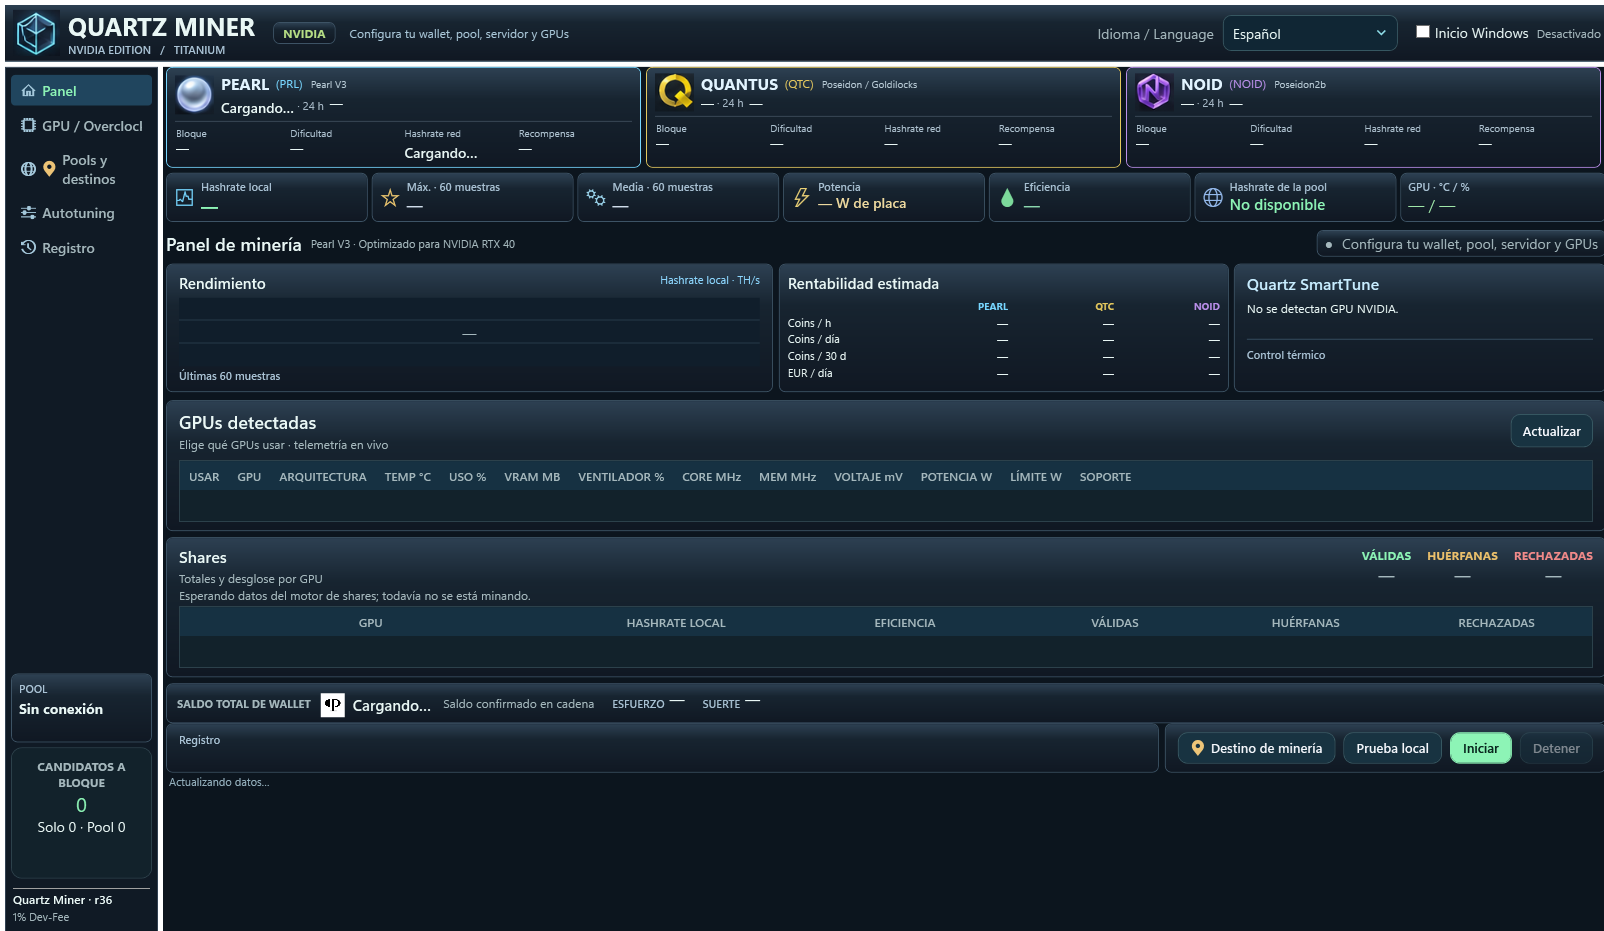
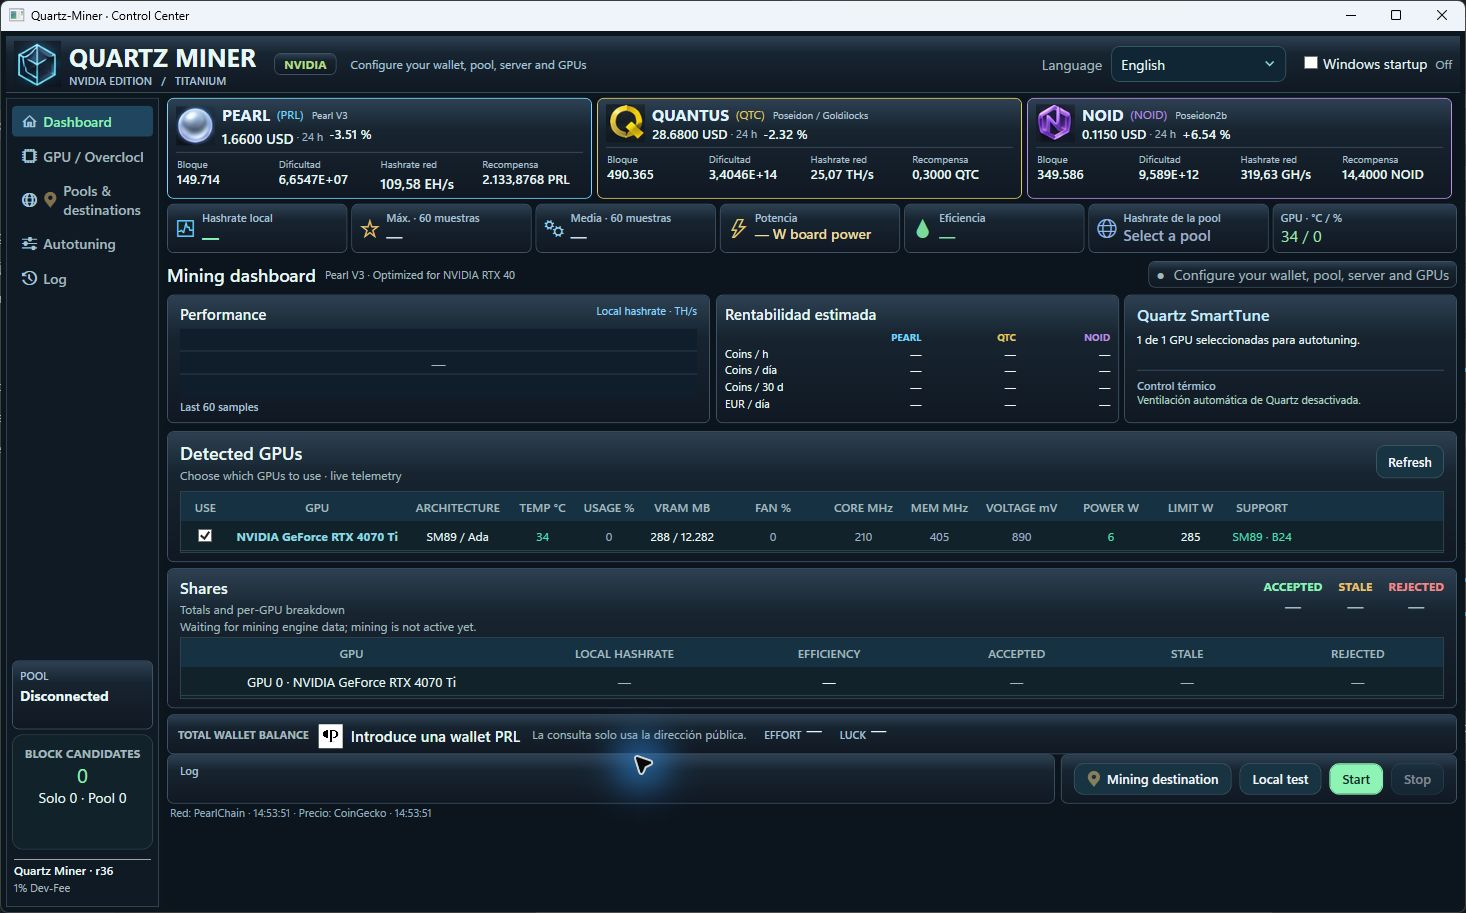
Update Titanium screenshots and release notes

diff --git a/README.md b/README.md
@@ -40,12 +40,12 @@ Quartz selects the CUDA image by each GPU’s PCI address. In a mixed rig, Ada G
 
 Autotuning is available on the two qualified models. Clock, fan, voltage and power controls depend on the individual card and driver.
 
-## Latest FIX — portable settings and verified GPU controls
+## Latest FIX — dashboard, pool hashrate and GPU recovery
 
-- A fresh extraction opens with empty payout, server, manual port, thermal target, tuning loss and overclock fields. Saved preferences belong to the installation's `user-settings` folder. Keep this folder when updating in place. When moving from an older release, **Import previous settings** is available in an empty installation.
-- Core and VRAM clock edits work independently. The panel checks the requested power limit against the live NVIDIA reading and logs a persistent mismatch once. Voltage and core adjustments remain pending until telemetry confirms them under load. External V/F control requires an enabled, supported MSI Afterburner curve.
-- On the RTX 4070 Ti, the panel applied 205 W before load and changed the limit to 200 W during local Pearl V3 work. Under load it reported 2,580 MHz core, 405 MHz VRAM and 900 mV. The fan target was 90%. Factory power (285 W) and automatic control of both fans were verified after stopping.
-- CPU regression tests covered 14 empty configuration fields, per-installation isolation, all five saved OC values, three coin destinations, repeated telemetry mismatches and recovery, and the bundled B24 and SmartTune hosts.
+- The three coin cards display current prices, 24-hour change, chain height, difficulty, estimated network hashrate and block rewards when the sources publish them.
+- A fresh Pearl installation prompts you to select a pool. Quantus reads the public HeroMiners pool total and NOID reads the public RPlant pool total. These readings are independent of the local GPU rate or worker rate.
+- Quartz can complete a pending GPU restoration when a disabled, readable MSI Afterburner V/F curve already matches the verified original state. Leave **Force constant voltage** disabled.
+- The clean Windows package passed 20 CPU checks and live Dashboard and pool-display checks without starting mining. The saved GPU recovery was verified on the idle RTX 4070 Ti.
 
 ## Download Quartz Miner for Windows
 
@@ -79,7 +79,7 @@ The panel shows **1% Dev-Fee**. Quartz schedules up to 30 seconds of developer m
 
 ## Titanium panel
 
-Screenshots from the published Windows application in a clean, offline session. Mining and telemetry are idle.
+The Dashboard shows live market and network data from a clean installation with mining stopped. The GPU / Overclock image uses a simulated card and blank settings.
 
 ![Titanium dashboard with Pearl V3, NOID and Quantus, per-GPU hashrate and efficiency](titanium-dashboard.png)
 

diff --git a/RELEASE-NOTES.md b/RELEASE-NOTES.md
@@ -1,10 +1,12 @@
 # Quartz-Miner 1.0.12 FIX
 
-## Latest FIX — portable settings and verified GPU controls
+## Latest FIX — dashboard, pool hashrate and GPU recovery
 
-- A fresh extraction opens with empty payout, server, manual port, thermal target, tuning loss and overclock fields. Saved preferences belong to the installation's `user-settings` folder. Keep this folder when updating in place. When moving from an older release, **Import previous settings** is available in an empty installation.
-- Core and VRAM clock edits work independently. The panel checks the requested power limit against the live NVIDIA reading and logs a persistent mismatch once. Voltage and core adjustments remain pending until telemetry confirms them under load. External V/F control requires an enabled, supported MSI Afterburner curve.
-- On the RTX 4070 Ti, the panel applied 205 W before load and changed the limit to 200 W during local Pearl V3 work. Under load it reported 2,580 MHz core, 405 MHz VRAM and 900 mV. The fan target was 90%. Factory power (285 W) and automatic control of both fans were verified after stopping.
-- CPU regression tests covered 14 empty configuration fields, per-installation isolation, all five saved OC values, three coin destinations, repeated telemetry mismatches and recovery, and the bundled B24 and SmartTune hosts.
+- The three coin cards display current prices, 24-hour change, chain height, difficulty, estimated network hashrate and block rewards when the sources publish them.
+- A fresh Pearl installation prompts you to select a pool. Quantus reads the public HeroMiners pool total and NOID reads the public RPlant pool total. These readings are independent of the local GPU rate or worker rate.
+- Quartz can complete a pending GPU restoration when a disabled, readable MSI Afterburner V/F curve already matches the verified original state. Leave **Force constant voltage** disabled.
+- The clean Windows package passed 20 CPU checks and live Dashboard and pool-display checks without starting mining. The saved GPU recovery was verified on the idle RTX 4070 Ti.
 
[1 lines of base64/hex data omitted]
+Extract the entire Windows x64 ZIP and open **Quartz-Miner.Panel.exe**. Verify the archive against **SHA256SUMS.txt**. Keep **user-settings** when updating in place.
+
+**Windows ZIP SHA-256** bf5684f9770b1084e275b0a0aa85f33caf1ae1872aa514db5a6c8fb711776721
